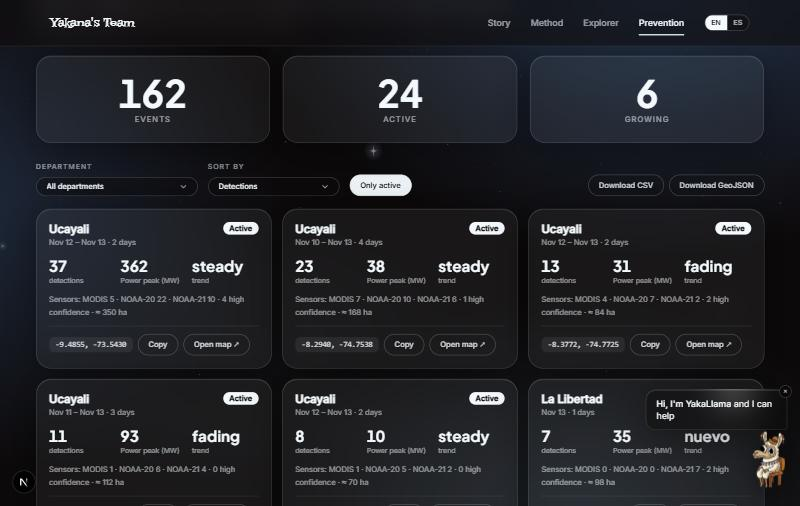
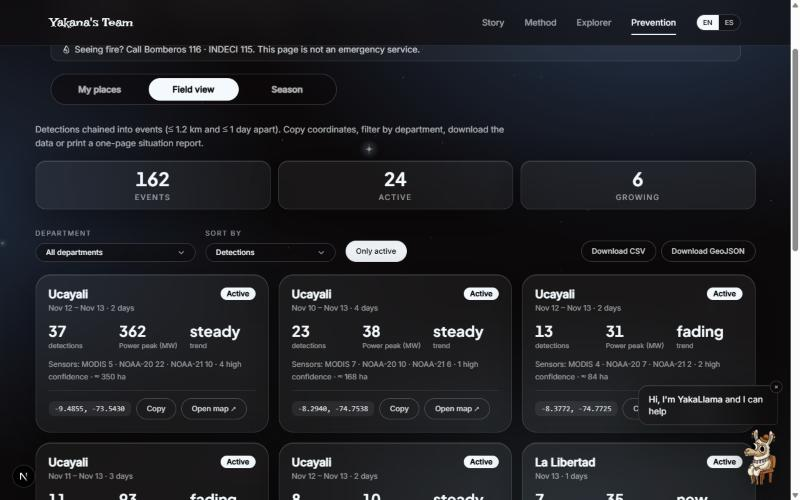
fix(frontend): iconos SVG en vez de emojis y capturas nuevas de la pagina de prevencion
- Se quitan los emojis de la interfaz (aviso de emergencia, boton "usar mi ubicacion") y el del mensaje
  que se comparte con la familia; en su lugar hay iconos de linea SVG (llama y pin) en
  prevencion/Icons.tsx que heredan el color del texto.
- Se quita el emoji del titulo del README.
- Se reemplazan las capturas de prevencion en docs/images por las del diseno con pestanas.

diff --git a/frontend/src/app/prevencion/text.ts b/frontend/src/app/prevencion/text.ts
@@ -117,7 +117,7 @@ export const TXT = {
       when: string;
       url: string;
     }) =>
-      `🔥 Fire watch · ${o.name}\n${o.status}\n${o.nearest}\n${o.season}\nLocation: ${o.coords}\nSatellite data (NASA FIRMS) ${o.when}.\nSource: ${o.url}`,
+      `Fire watch · ${o.name}\n${o.status}\n${o.nearest}\n${o.season}\nLocation: ${o.coords}\nSatellite data (NASA FIRMS) ${o.when}.\nSource: ${o.url}`,
     // section 2
     s2: "Field view",
     s2t: "Coordinates and situation for firefighters and authorities",
@@ -282,7 +282,7 @@ export const TXT = {
       when: string;
       url: string;
     }) =>
-      `🔥 Vigilancia de fuego · ${o.name}\n${o.status}\n${o.nearest}\n${o.season}\nUbicación: ${o.coords}\nDatos satelitales (NASA FIRMS) ${o.when}.\nFuente: ${o.url}`,
+      `Vigilancia de fuego · ${o.name}\n${o.status}\n${o.nearest}\n${o.season}\nUbicación: ${o.coords}\nDatos satelitales (NASA FIRMS) ${o.when}.\nFuente: ${o.url}`,
     s2: "Vista de campo",
     s2t: "Coordenadas y situación para bomberos y autoridades",
     s2d: "Detecciones encadenadas en eventos (≤ 1,2 km y ≤ 1 día de distancia). Copia coordenadas, filtra por departamento, descarga los datos o imprime un parte de situación de una página.",

diff --git a/frontend/src/app/prevencion/Icons.tsx b/frontend/src/app/prevencion/Icons.tsx
@@ -1,0 +1,27 @@
+/** Iconos de línea (SVG) de la página de prevención. Heredan el color del texto. */
+type P = { className?: string };
+const base = {
+  width: 16,
+  height: 16,
+  viewBox: "0 0 24 24",
+  fill: "none",
+  stroke: "currentColor",
+  strokeWidth: 1.8,
+  strokeLinecap: "round",
+  strokeLinejoin: "round",
+  "aria-hidden": true,
+} as const;
+
+export const FlameIcon = ({ className = "" }: P) => (
+  <svg {...base} className={className}>
+    <path d="M12 3c.6 3.2-2.8 4.6-3.7 7.6C7.6 13 8.7 14.6 10 15.3c-.3-1.6.4-2.9 1.6-3.7.1 1.7 1.6 2.3 2.1 3.6.4 1.1.1 2.3-.6 3.1" />
+    <path d="M12 21c-3.6 0-6-2.5-6-5.8 0-2.2 1.2-3.9 2.5-5.3C9.3 8.9 10.6 7 12 3c1.8 2.2 6 5.2 6 12.2 0 3.3-2.4 5.8-6 5.8Z" />
+  </svg>
+);
+
+export const PinIcon = ({ className = "" }: P) => (
+  <svg {...base} className={className}>
+    <path d="M12 21s-7-5.6-7-11a7 7 0 1 1 14 0c0 5.4-7 11-7 11Z" />
+    <circle cx="12" cy="10" r="2.6" />
+  </svg>
+);

diff --git a/frontend/src/app/prevencion/PlacesSection.tsx b/frontend/src/app/prevencion/PlacesSection.tsx
@@ -26,6 +26,7 @@ import {
 } from "@/lib/saved-places";
 import { useApi } from "@/lib/use-api";
 import FireMap from "./FireMap";
+import { PinIcon } from "./Icons";
 import type { T } from "./text";
 
 type Api<D> = { data?: D; error?: Error; loading: boolean; reload: () => void };
@@ -477,7 +478,14 @@ export default function PlacesSection({
                 disabled={locating}
                 className={BTN_PRIMARY}
               >
-                {locating ? t.locating : `📍 ${t.useLocation}`}
+                {locating ? (
+                  t.locating
+                ) : (
+                  <>
+                    <PinIcon className="mr-1.5 inline-block -translate-y-px" />
+                    {t.useLocation}
+                  </>
+                )}
               </button>
             </div>
 

diff --git a/frontend/src/app/prevencion/PreventionView.tsx b/frontend/src/app/prevencion/PreventionView.tsx
@@ -6,6 +6,7 @@ import type { ApiAlert, ApiEvents, ApiFires, ApiHealth } from "@/lib/api";
 import { useLang } from "@/lib/lang";
 import { useApi } from "@/lib/use-api";
 import FieldSection from "./FieldSection";
+import { FlameIcon } from "./Icons";
 import PlacesSection from "./PlacesSection";
 import SeasonSection from "./SeasonSection";
 import { textFor } from "./text";
@@ -86,7 +87,8 @@ export default function PreventionView() {
         </div>
 
         <p className="mt-2.5 rounded-xl border border-snow/15 bg-snow/[0.04] px-4 py-2 text-xs text-snow/80 sm:text-sm">
-          🔥 {t.emergency}
+          <FlameIcon className="mr-1.5 inline-block -translate-y-px" />
+          {t.emergency}
         </p>
 
         <div

diff --git a/README.md b/README.md
@@ -1,6 +1,6 @@
 <div align="center">
 
-# 🔥 Yakana's Team · Fire Calendar of Peru
+# Yakana's Team · Fire Calendar of Peru
 
 **One comparable record of Peru's satellite fire hotspots, 2003 → today — harmonized across NASA's MODIS and VIIRS sensors, explored on the web and turned into alerts.**
 
